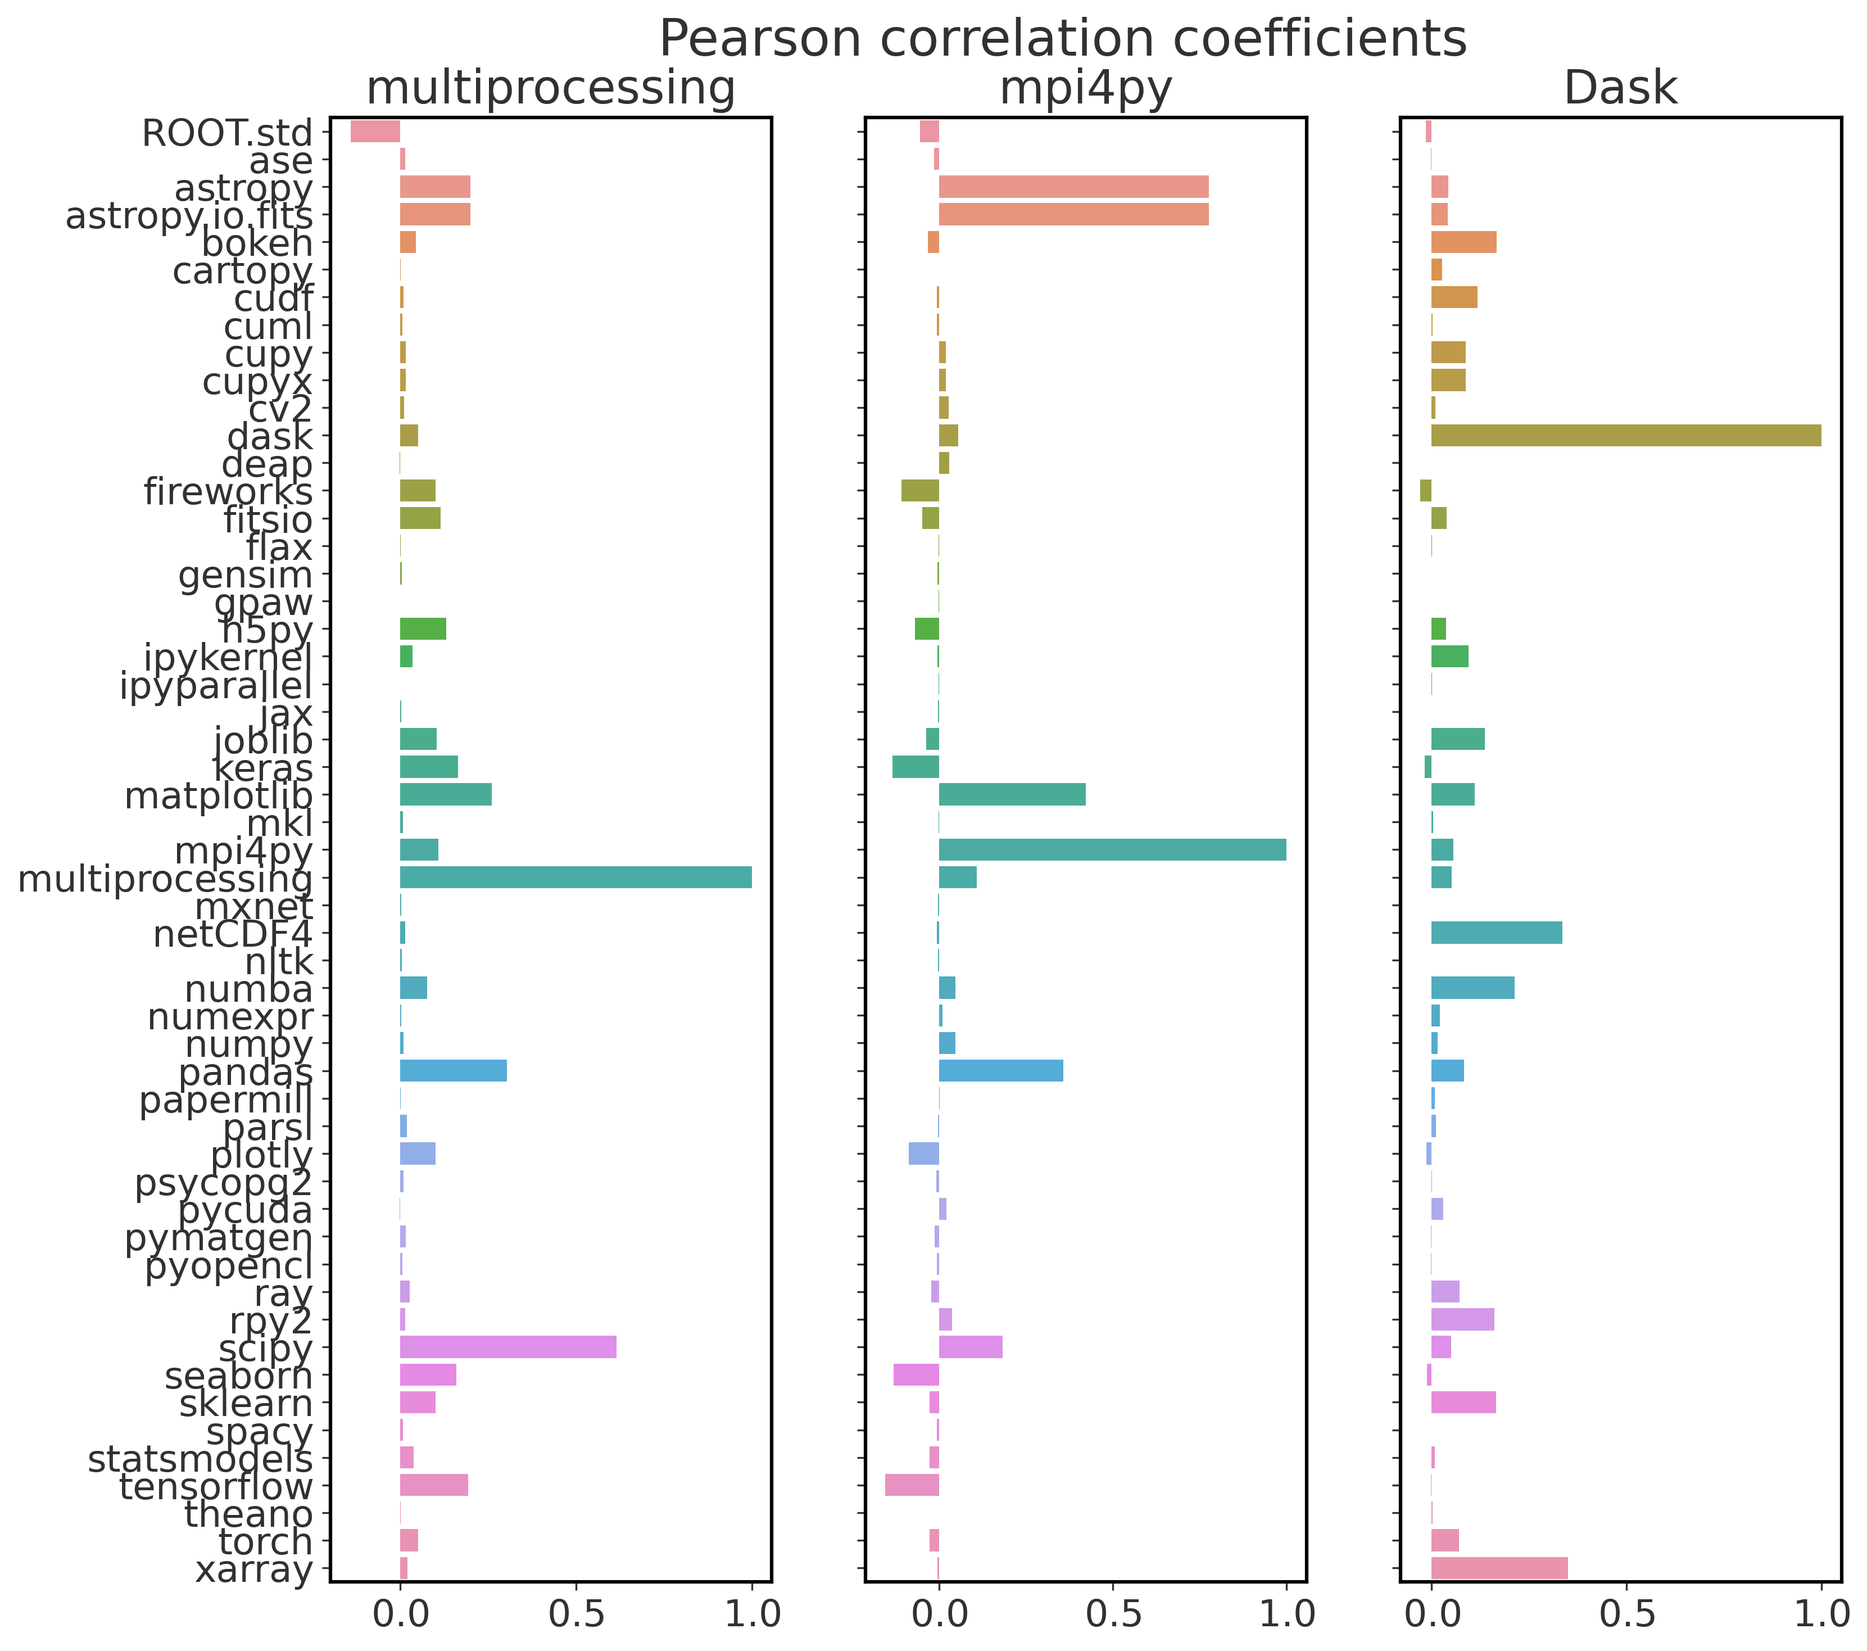
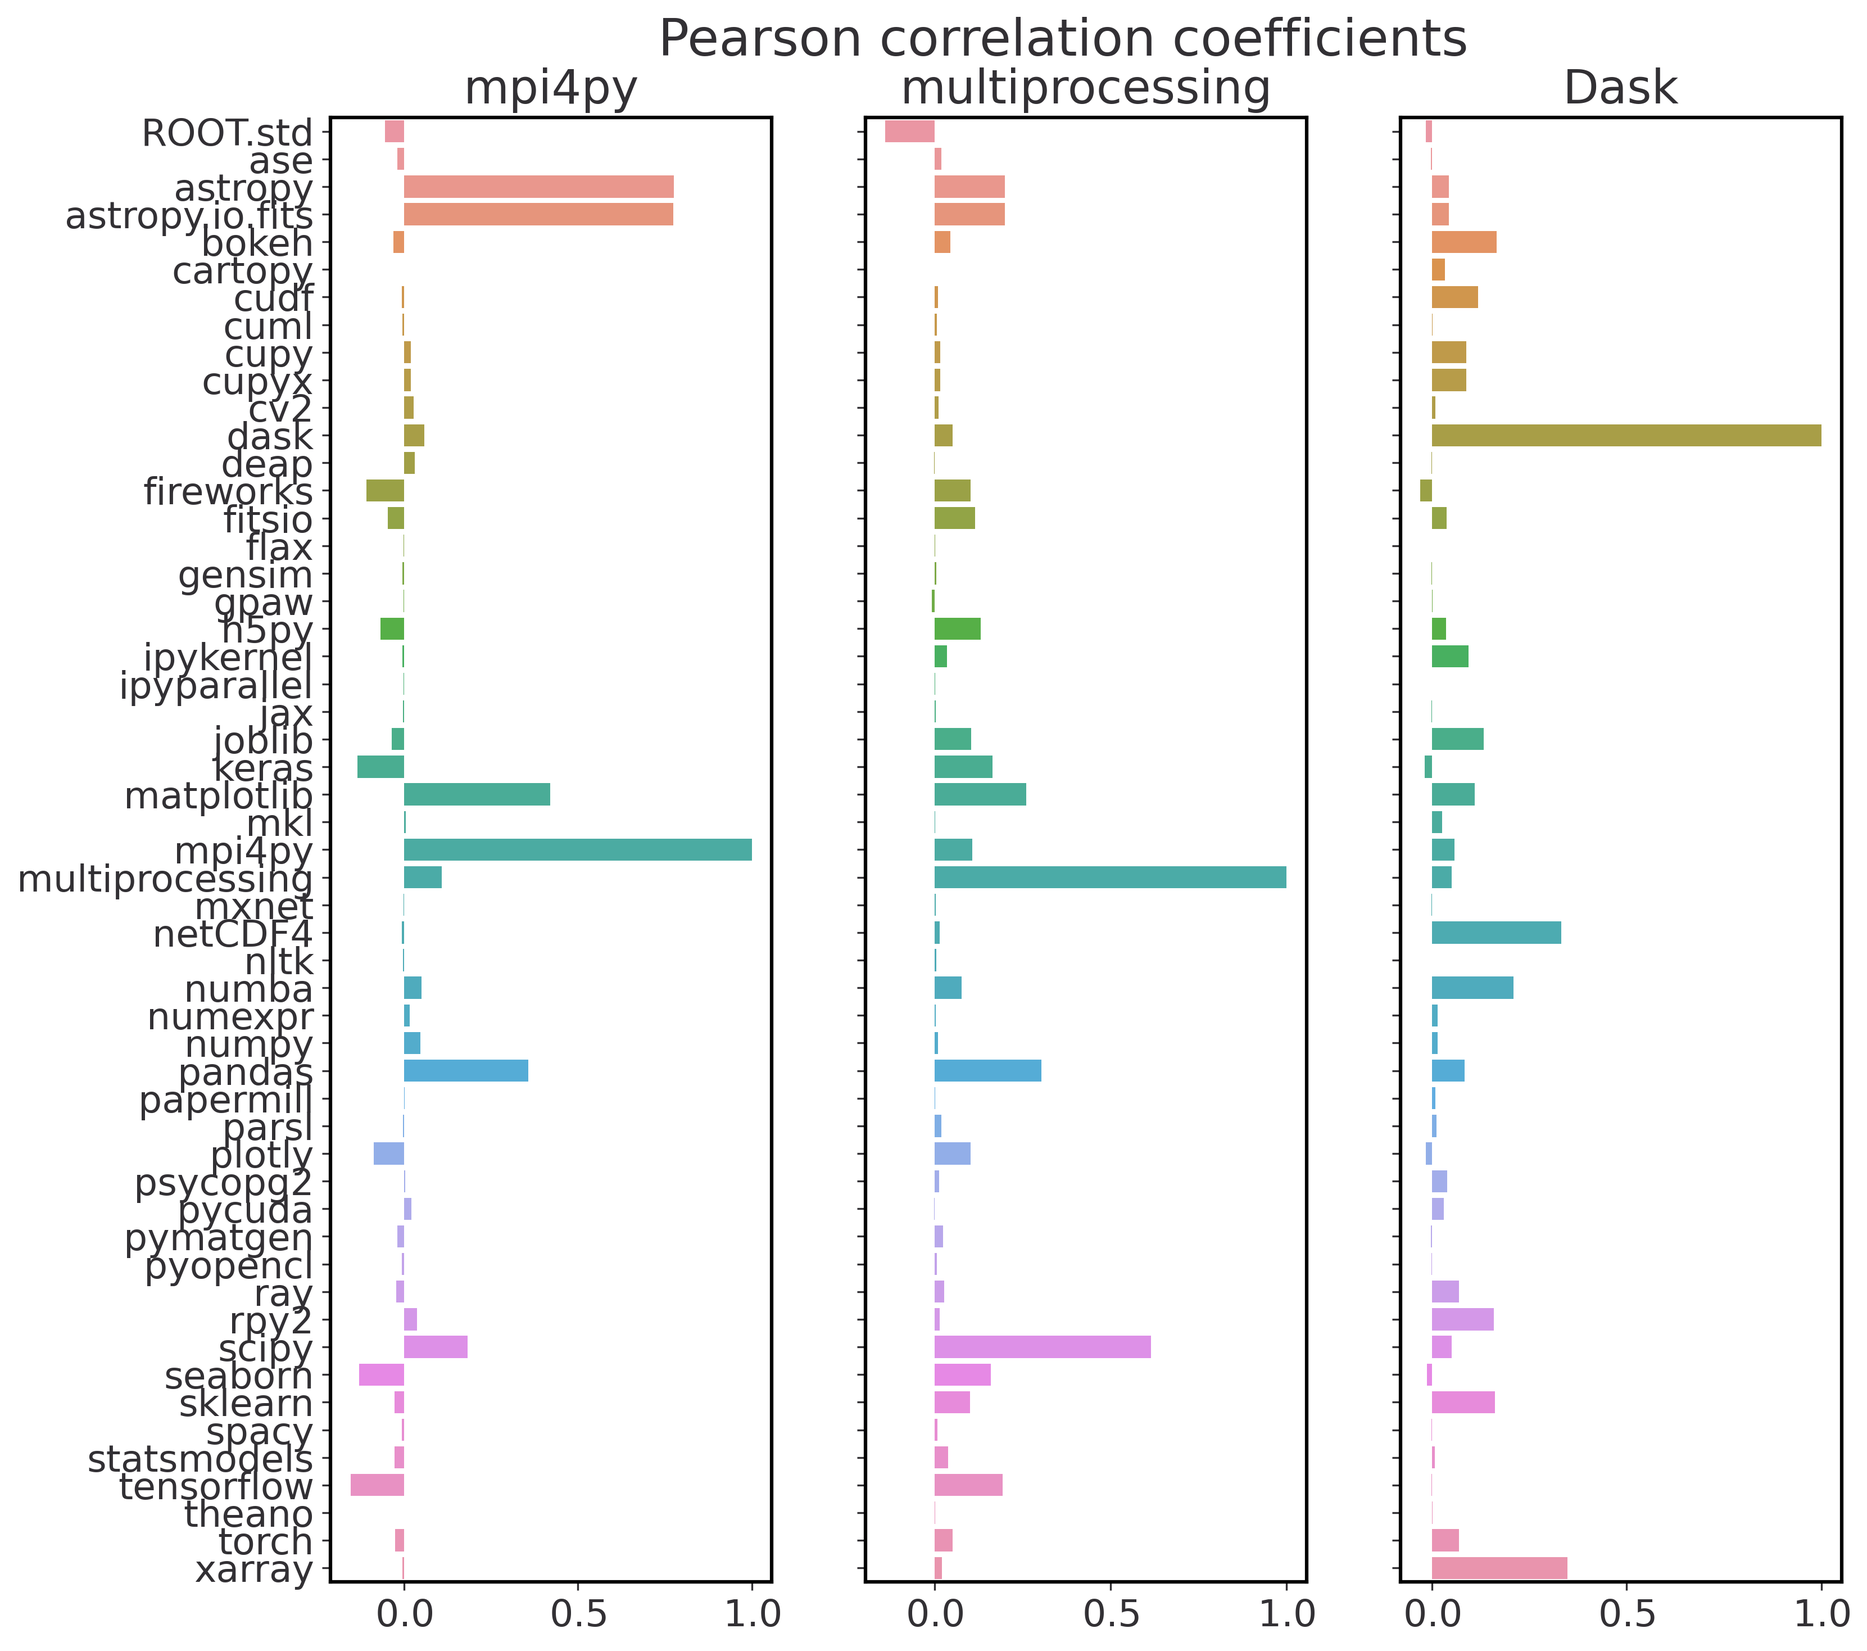
cleanup results section, revert fig 6

diff --git a/papers/rollin_thomas/ms.rst b/papers/rollin_thomas/ms.rst
@@ -558,17 +558,29 @@ analysis and plotting require incompatible kernels.**
 Results
 =======
 
-Our simple data collection framework gives us a rich data set to examine, and
-our workflow gives us a way to interactively explore the data and refine the
-results of our exploration into dashboards for monitoring Python.
-Given a fixed amount of space, we choose to focus on just some of the most
-generally useful questions we can ask of the data, but also highlight some
-surprises.
-Results presented come from data collected between January and May 2021.
-**FIXME was this unique nonstaff users on computes only?  need to add that**
+Our simple data collection framework yields a rich data set to examine and
+our workflow enables us to interactively explore the data and translate the
+results of our exploration into dashboards for monitoring Python.  In this
+section we choose to focus on a few of the questions we can ask of the data,
+but also highlight some surprises.
 
-**FIXME How many Python jobs, how many jobs use Conda environments and how many
-use the module.**
+The results presented come from data collected between January and May 2021.
+During this period of time we had 2448 unique non-staff Python users, at least
+30 percent of all total NERSC users. **FIXME** percent of Python jobs ran on
+our Haswell partition and **FIXME** percent ran on our KNL partition. 63
+percent of all our users have used the NERSC-provided Python module, although
+only 5 percent of Python jobs used the module, suggesting that for heavy
+computation most users prefer their own stack. As a result of discovering this
+low use rate we have slowed down our module release cadence and instead
+prioritized empowering users to build their own software environments via conda
+and Shifter.
+
+Roughly 17 percent of our MKL-eligible jobs (those using NumPy, SciPy, Numexpr,
+and scikit-learn) used MKL. This fraction was dissapointingly low as our goal
+at an HPC center is encourge high-performance libraries. This is another
+actionable insight; now that we have identified that MKL adoption is low, our
+goal is to try to increase MKL usage through training, documentation, or other
+methods.
 
 .. figure:: library-barplot-2021.png
 
@@ -576,39 +588,42 @@ use the module.**
    All results from data collected January to May, 2021.
    :label:`lib-barplot`
 
-Fig. :ref:`lib-barplot` displays the top 20 Python packages in use by unique
-user count.
-These are similar to previous observations reported from Blue Waters and TACC
-[Mcl11]_ [Eva15]_.
+Fig. :ref:`lib-barplot` displays the top 20 Python packages in use determined
+from unique user imports (i.e. deduplicated by user) across the system, which
+includes Jupyter and login node usage.
+These top libraries are similar to previous observations reported from
+Blue Waters and TACC [Mcl11]_ [Eva15]_.
 However, the relative prominance of ``multiprocessing`` is striking.
 We also note that Joblib, a package for lightweight pipelining and easy
 parallelism, ranks higher than both ``mpi4py`` and Dask.
 
 The relatively low rankings for TensorFlow and PyTorch are partially due to the
 current paucity of GPU resources, as Cori provides access to only 18 GPU nodes
-mainly for application readiness activities in support of the next (GPU-based)
-system being deployed.
-Once that system is available we expect quite different results.
-Users that are training deep learning models may also submit a chain of jobs
-that collide with their requested time limits, abnormal terminations that may
-result in an undercount.
+mainly for application readiness activities in support of Perlmutter, the next
+(GPU-based) system being deployed.  Addtionally, some users that are training
+deep learning models submit a chain of jobs that may not be expected to finish
+within the requested walltime; the result is that the job may end before
+``customs`` can capture data from the ``atexit``, resulting in under-reporting.
 
 .. figure:: jobsize-hist-2021.png
 
    Distribution of job size for batch jobs detected that use Python.
+   Only compute node jobs were used in this calculation.
    :label:`jobsize-hist`
 
 Fig. :ref:`jobsize-hist` shows the distribution of job size (node count) for
 jobs that invoked Python and imported one or more of the packages we monitor.
+Note that only imports within a job (i.e. ``is_compute==True``)
+used this analysis.
 Most of these jobs are small, but the distribution tracks the overall
 distribution of job size at NERSC.
 
-.. figure:: jobsize-lib-2021-hist-only.png
+.. figure:: jobsize-lib-2021.png
 
    2D histogram of Python package counts versus job size.
-   The data are deduplicated by ``job_id`` and package name, not by user as in
-   Fig. :ref:`jobsize-hist`.
-   :label:`jobsize-lib`
+   The data are deduplicated by ``job_id`` not by user as in
+   Fig. :ref:`lib-barplot`. Duplicate imports within a job
+   are only counted once. :label:`jobsize-lib`
 
 Breaking down the Python workload further, Fig. :ref:`jobsize-lib` contains a 2D
 histogram of Python package counts versus job size.
@@ -631,41 +646,29 @@ may suggest users find it easier to scale PyTorch on Cori.
 
    Pearson correlation coefficients for tracked Python libraries within the same
    job.
-   Even if libraries were imported multiple times per job, they were counted as
-   either a 0 or 1. :label:`corr2d`
+   Libraries were only counted once per job. Here we display correlation
+   coefficient values between 0.6 and 0.8 in an effort to highlight
+   a regime in which packages have a strong relationship but no explict
+   dependencies. :label:`corr2d`
 
 While it is obvious that packages that depend on or are dependents of other
 packages will be correlated within jobs, it is still interesting to look at the
-co-occurrence or anti-occurrence of certain packages.
-A simple way of looking at this is to determine Pearson correlation coefficients
-for each tracked library with all others, assigning a 1 to jobs where a certain
-package was used and 0 otherwise.
-The resulting correlation coefficients appear as a heatmap in Fig.
-:ref:`corr2d`.
+co-occurrence of certain packages.  A simple way of looking at this is to
+determine Pearson correlation coefficients for each tracked library with all
+others, assigning a 1 to jobs in which a certain package was used and 0 otherwise.
+The resulting correlation coefficients, calculated with ``cudf.corr``, appear as
+a heatmap in Fig. :ref:`corr2d`. We have chosen to display packages with a
+correlation coefficient between 0.6 and 0.8 in this figure in an attempt to
+highlight relationships that are strong but not as a result of a known package
+dependency. (Note however that with our choice of coefficient values the
+depdency between ``nltk`` and ``gensim`` still remains.) Notable non-dependency
+related packages include ``mpi4py`` and ``Astropy`` (discussed in more detail
+below), ``Seaborn`` and ``TensorFlow``, and the ``FireWorks`` workflow engine
+[Jai15]_ and ``Plotly``.
 
-Unsurprisingly there are some strong but predictable correlations: CuPy with
-CuPyx, AstroPy with its submodule ``astropy.fits.io``.
-Other correlations include scikit-learn and Joblib, likely because
-scikit-learn uses Joblib to obatain parallelism; TensorFlow and ``h5py``,
-perhaps because HDF5 is used as common format for saving model data **FIXME Is
-there a way we can make sure?**, and
-Seaborn and Keras, which have no relationship as far as we
-are aware.  **FIXME is Seaborn-Keras due to one user who just likes that
-combination?, or does a Keras dependency bring in Seaborn?**
-
-FireWorks workflow engine [Jai15]_ is anticorrelated with TensorFlow, probably
-because TensorFlow has its own distributed training strategies like Horovod.
-Seaborn is anticorrelated with Plotly; we posit that this is because these are
-very different approaches to Python plotting.
-Other notable anticorrelations
-include ``SciPy`` and ``fitsio``, ``multiprocessing`` and ``ROOT.std`` (used
-by the high-energy physics community), and ``Astropy`` and ``TensorFlow``
-**Are these really strong correlations, maybe the plot could remove pearson
-within some distance of 0, that might make it more readable actually**
-
-Is there a way we can use this summary correlation information to tell us what
-users are doing with packages used to achieve parallelism, in particular
-``mpi4py``, ``multiprocessing``, and Dask?
+We used this correlation information to look more carefully into library
+use alongside ``mpi4py``, ``multiprocessing``, and Dask, all of which
+we are especially interested in because they enable parallelism.
 Fig. :ref:`case-studies` presents the correlations of each of these packages
 with all other tracked packages.
 
@@ -674,10 +677,10 @@ with all other tracked packages.
 
    1D slices of 2D correlation heatmap shown in Fig. :ref:`corr2d` for
    ``mpi4py`` (left), ``multiprocessing`` (center), and Dask (right).
-   **FIXME swap multiprocessing with mpi4py in the figure**
    :label:`case-studies`
 
-Fig. :ref:`case-studies` (left) shows a very strong domain-specific correlation
+We first examine ``mpi4py``. Fig. :ref:`case-studies` (left)
+shows a very strong domain-specific correlation
 with AstroPy (and its sub-module ``astropy.io.fits``).
 This suggests that users of AstroPy have been able to scale associated
 applications using ``mpi4py`` and that AstroPy developers may want to consider
@@ -687,13 +690,6 @@ cosmology experiments like Dark Energy Survey **REF**, Dark Energy Spectroscopic
 Instrument **REF**, and the Dark Energy Science Collaboration **REF**.
 Taken together this is a rather large community of users, to whom these two
 packages appear to be fairly important.
-**FIXME: I propose we drop mentioning these if we have nothing else to say:
-Other notable correlations include Matplotlib, NumPy, and SciPy which are fairly
-general-purpose.
-Some small anti-correlations with FireWorks, Keras, and TensorFlow may be due to
-them having their own approaches to distributing work or scaling. For example,
-Horovod, which is used by Tensorflow to scale, uses MPI and/or NCCL directly.**
-
 Following up with users revealed that using ``mpi4py`` for "embarrassingly
 parallel" calculations is very common: "My go-to approach is to broadcast data
 using ``mpi4py``, split up input hyperparameters/settings/etc. across ranks,
@@ -701,29 +697,27 @@ have each rank perform some number of computations, and then gather all the
 results (which are almost always NumPy arrays) using ``mpi4py``."
 Very few users report more intricate communication patterns.
 
-The Conda tool uses ``multiprocessing`` but even after filtering out those
-cases, ``multiprocessing`` remains one of the most popular Python libraries in
-use on Cori.
-Correlations between ``multiprocessing`` and other packages appear in Fig.
-:ref:`case-studies` (center).
-The primary correlation visible here is with Scipy, which has some built-in
-support for interoperating with ``multiprocessing``, for instance through
-``scipy.optimize``.
-
-As with ``mpi4py`` we followed up with several of the top ``multiprocessing``
-users.
-One replied: "I'm using and testing many bioinformatics Python-based packages,
-some of them probably using Python ``multiprocessing``.
-But I'm not specifically writing myself scripts with ``multiprocessing``."
+Next we consider multiprocessing. We know
+that the Conda tool uses multiprocessing but even after filtering out those
+cases, multiprocessing remains one of the most popular Python libraries in
+use on Cori. If we examine Fig. :ref:`case-studies` (center),
+we don't see the same kind of strong relationships we did with mpi4py.
+The primary correlation visible here is with SciPy, which has some built-in
+support for interoperating with multiprocessing, for instance through
+``scipy.optimize``. To learn more we followed up with several of the top
+multiprocessing users.
+One reported: "I'm using and testing many bioinformatics Python-based packages,
+some of them probably using Python multiprocessing.
+But I'm not specifically writing myself scripts with multiprocessing."
 Another reported: "The calculations are executing a workflow for computing the
 binding energies of ligands in metal complexes.
-Since each job is independent, ``multiprocessing`` is used to start workflows on
+Since each job is independent, multiprocessing is used to start workflows on
 each available processor."
-**FIXME** We appear to have some mix of both direct and indirect use of
-``multiprocessing`` as reported by these users; understanding this breakdown
-will be part of our future work.
+We appear to have some mix of both direct and indirect use of
+multiprocessing as reported by these users.
 
-Dask is a Python package for task-based parallelism and analytics at scale.
+Finally we consider Dask, a Python package for task-based parallelism
+and analytics at scale.
 Users are increasingly interested in these kinds of cluster runtimes where they
 queue up work, submit the work to the scheduler as a task graph, and the
 scheduler handles dependencies and farms out the tasks to workers.
@@ -731,21 +725,25 @@ Dask also inter-operates with GPU analytics libraries from NVIDIA as part of
 RAPIDS, so we are naturally interested in its potential our next system based in
 part on GPUs.
 
-As we noted above, large jobs using Dask are generally smaller than those using
+As we noted above, large jobs using Dask are generally smaller than
+those using
 ``mpi4py`` (500 nodes versus 3000+ nodes), which indicates something of a
 potential gap in scalability on Cori.
 The correlation data shown in Fig. :ref:`case-studies` (right) indicate an affinity with
-the climate community, where ``netCDF4`` and ``xarray`` seem particularly
-important.
-
-We reached out to several Dask users to follow-up.
+the weather and climate community, where ``netCDF4`` and ``xarray`` seem particularly
+important. We reached out to several Dask users to learn more.
 One reponded: "I don't remember having any Python Dask-related jobs running in
 the past 3 months."
 After some additional discussion and analysis, we discovered the user was using
 ``xarray`` which we believe was using Dask unbeknownst to the user.
 This kind of response from Dask users was not uncommon.
 
-**FIXME** Section needs some kind of ending.
+These results are a snapshot of the information our monitoring framework can
+provide. Due to limited space we have provided only several examples; we have
+even more information regarding usage patterns for containers, filesystems, and
+user demographics. These early results provide concrete supporting evidence
+that the framework we present is capable of providing valuable and actionable
+insights.
 
 Discussion
 ==========
@@ -1002,13 +1000,16 @@ This research used resources of the National Energy Research Scientific
 Computing Center (NERSC), a U.S. Department of Energy Office of Science User
 Facility located at Lawrence Berkeley National Laboratory, operated under
 Contract No. DE-AC02-05CH11231.
-We thank our colleagues Brian Austin, Colin MacLean, and Tiffany Connors for
+We thank our colleagues Brian Austin, Colin MacLean, Tiffany Connors, and
+Aditya Kavalur for
 discussions on workload analysis, process monitoring, and Python.
 The authors would like to thank the Vaex developers for their help and advice
 related to this work.
 The authors would also like to thank the Dask-cuDF and cuDF developers for their
 quick response fixing issues and for providing helpful advice in effectively
-using cuDF and Dask-cuDF.
+using cuDF and Dask-cuDF. Finally we would like to thank our users who
+were kind enough to provide feedback to us and allow us to use their quotes
+about how they are using Python at NERSC.
 
 References
 ==========
